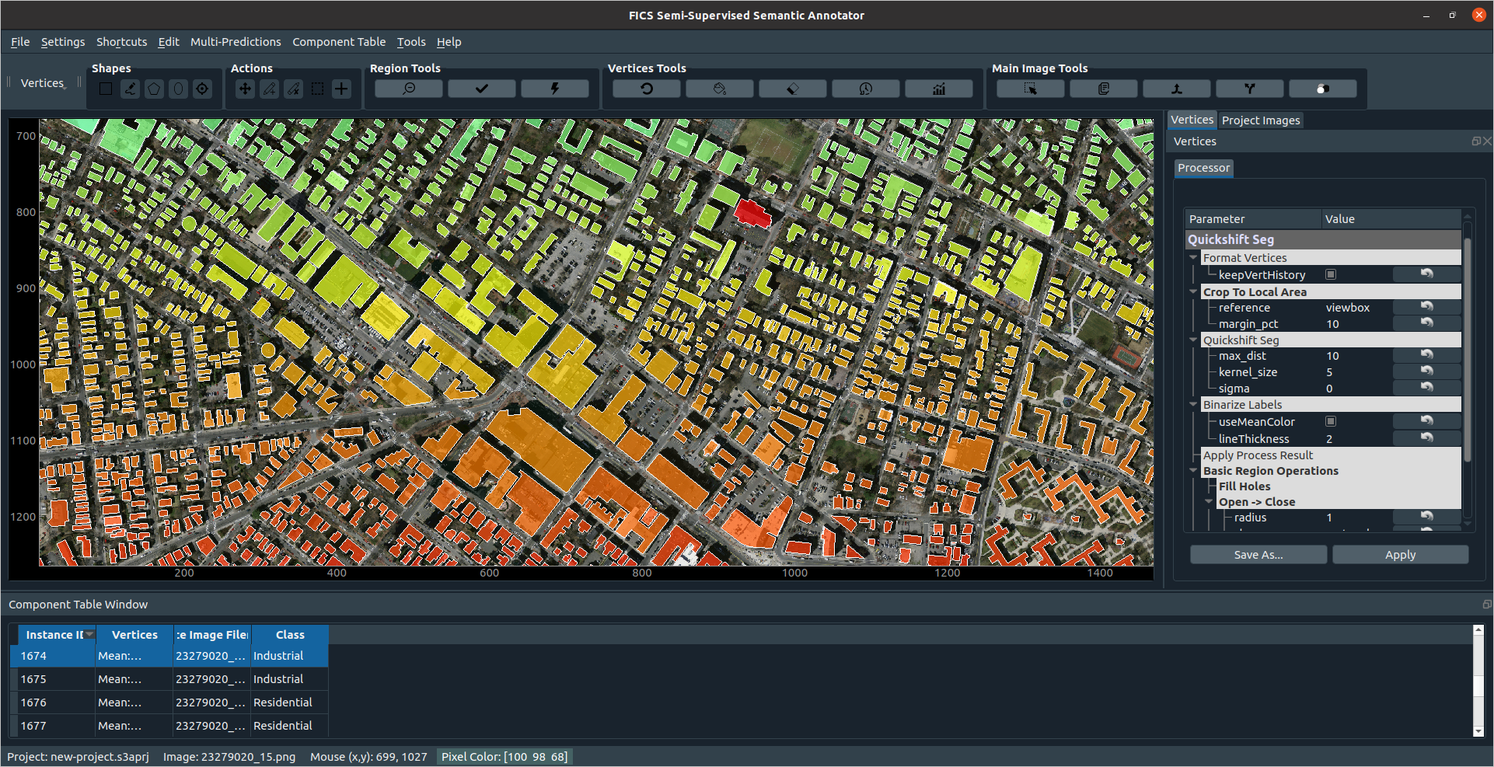
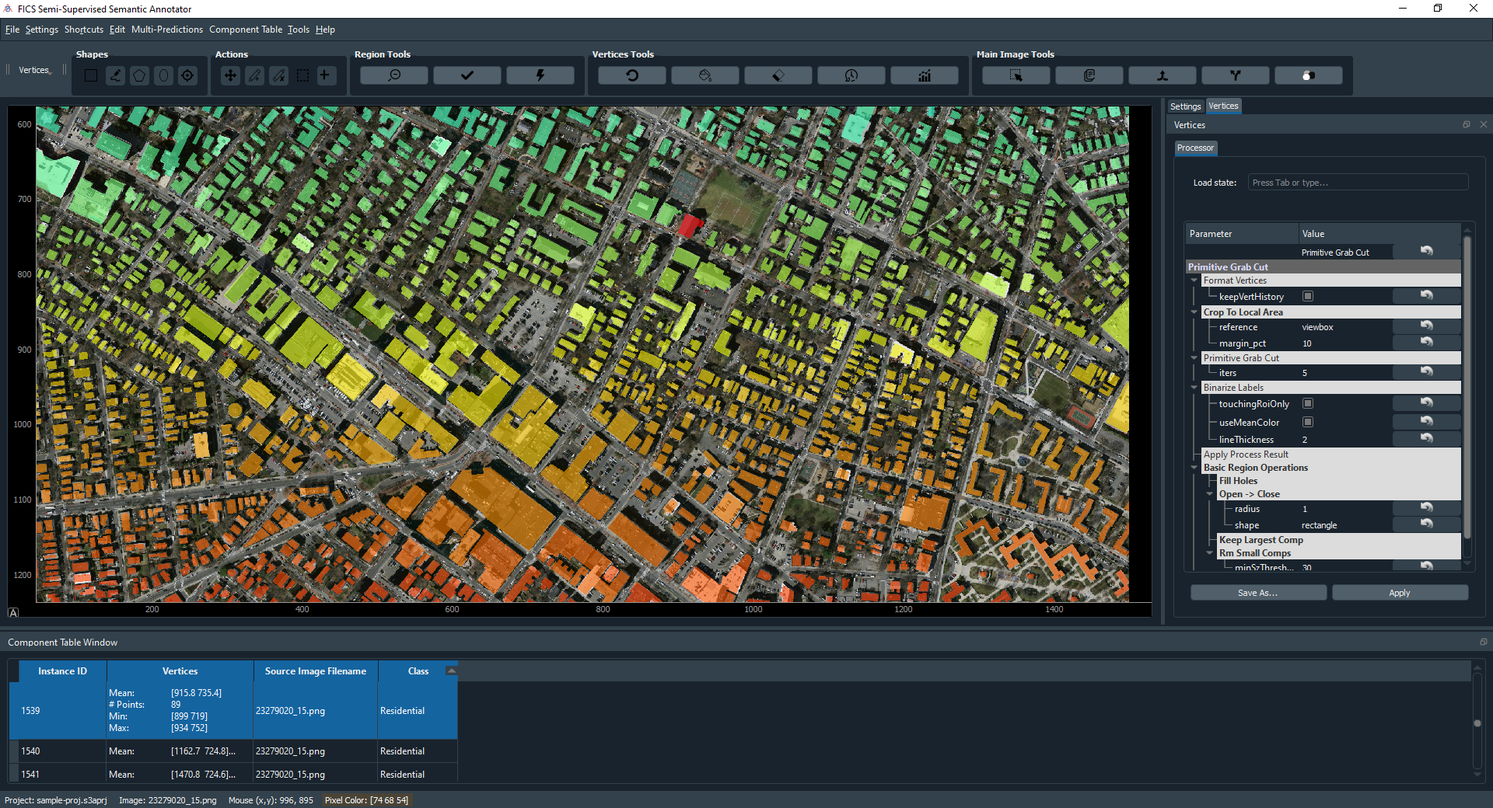
Updates from Overleaf

diff --git a/sections/methods.tex b/sections/methods.tex
@@ -1,18 +1,31 @@
-\section{Application Features}
+\section{Application Features}\label{sec:appFeatures}
 
 \subsection{Motivation}\label{sec:motivation}
-All application features are driven by the following objectives:
+Design decisions throughout S3A's architecture have been driven by the following objectives:
 
-Metadata should have significance rather than be treated as an afterthought
+\begin{itemize}
+    \item Metadata should have significance rather than be treated as an afterthought
+    \item High resolution images should have minimal impact on the annotation workflow
+    \item ROI density and complexity should not limit annotation workflow
+\end{itemize}
 
-Large images should have minimal impact on the annotation workflow
+These motives were selected upon noticing the general lack of solutions for related problems in previous literature. Moreover, applications that \emph{do} address multiple aspects of complex region annotation often require an enterprise service and cannot be accessed under open-source policies.
 
-Similarly, a multitude of regions or significant region complexity should not penalize the annotator.
+In other words, despite the great diversity present in machine learning applications, many existing annotation tooling make assumptions as to the type of data that users require and the lack of need for cross-domain / cross-dataset applicability.
+These limiting assumptions create critical bottlenecks during the annotation process when related features are required.
+Consequently, the time and cost associated with making large quality datasets is drastically increased.
 
-Why were these chosen? Cite some works about how 
+% The key limiting assumptions made by existing annotation software are the size of images, and the number of ROIs in images.
+% Many of these assumptions are related to common practices of downsizing high resolution images for faster computation times.
+With improving hardware capabilities and increasing need of high-resolution ground truth segmentation, there are a continually growing number of applications that \textit{require} high resolution imaging with the previously described characteristics \cite{Mohajerani_cloudRemoteSensing,Demochkina_improvingOneShotXray}.
+%[TODO: DESCRIBE 1 OR 2 APPLICATIONS]~\cite{TODO:}.
+In these cases, the existing annotation tooling greatly impacts productivity due to the previously referenced assumptions and lack of support \cite{SpaceNet2020-lb}.
+
+
+To demonstrate the extent to which S3A addresses these points, each subsection in \autoref{sec:appFeatures} ends with an "Impact" paragraph. This is to clearly show the relevance of every software feature to the larger annotation and visualization community. In other words, these are the primary motivators for research-based software rather than arbitrary improvements. These are refined and aggregated in \autoref{sec:impacts}.
 
 \subsection{Processing Framework}\label{sec:procFramework}
-At the root of S3A's functionality and configurability lies its adaptive processing framework. Functions exposed within S3A are thinly wrapped using a Process structure responsible for parsing signature information to provide documentation, parameter information, and more to the UI. Hence, all graphical depictions are abstracted beyond the concern of the user while remaining trivial to specify (but can be modified or customized if desired). As a result, incorporating additional application functionality requires few lines of code. An example of this wrapping mechanism is depicted in \autoref{fig:atomicProc}. Processes interface with PyQtGraph parameters to gain access to data-customized widget types and more (\href{https://github.com/pyqtgraph/pyqtgraph}{https://github.com/pyqtgraph/pyqtgraph}).
+At the root of S3A's functionality and configurability lies its adaptive processing framework. Functions exposed within S3A are thinly wrapped using a Process structure responsible for parsing signature information to provide documentation, parameter information, and more to the UI. Hence, all graphical depictions are abstracted beyond the concern of the user while remaining trivial to specify (but can be modified or customized if desired). As a result, incorporating additional application functionality requires few lines of code. An example of this wrapping mechanism is depicted in \autoref{fig:atomicProc}. Processes interface with PyQtGraph parameters to gain access to data-customized widget types and more (\url{https://github.com/pyqtgraph/pyqtgraph}).
 
 \makeAtomicProcFig
 
@@ -21,24 +34,29 @@ Such processes can also be arbitrarily nested and chained. This feature is criti
 \makeNestedProcFig
 
 \subsubsection{Image Processes}
-Image processes are a special case of the generalized paradigm described in \autoref{sec:procFramework}, since they are also capable of depicting stage-by-stage results and analytics after an operation has taken place. This feature is especially useful for determining the failure point in a chain of algorithms, allowing a user to quickly determine the most effective set of parameters for a given set of inputs. Moreover, image processes can be windowed at several levels (image, viewbox, component, and roi) to drastically improve performance in high-resolution inputs with sparsely populated foregrounds.
+Image processes are a special case of the generalized paradigm described in \autoref{sec:procFramework}, since they are also capable of depicting stage-by-stage results and analytics after an operation has taken place. This feature is especially useful for determining the failure point in a chain of algorithms, allowing a user to quickly determine the most effective set of parameters for a given set of inputs. Moreover, image processes can be windowed at several levels (image, viewbox, component, and ROI) to drastically improve performance in high-resolution inputs with sparsely populated foregrounds. Both features can be illustrated when locating people in \autoref{fig:sparsePeople}
 
+\makeSparsePeopleFig
 
-\hl{figure of region analytics}
+During annotation, it is clear some people are easier to contour than others, since darker clothing contrasts more strongly with the background. When evaluating which processing parameters are ideal for each case, it can be highly valuable to see the outputs of individual stages when a segmentation result is unexpected. An example is shown in \autoref{fig:regionAnalytics}, where a value selected for $k$ has worked well until segmenting light clothing. The reason for failure is immediately evident upon closer inspection, and $k$ can be increased accordingly to improve sensitivity.
 
-Consider the case where \hl{Use case for using region analytics to determine point of failure}
+\makeRegionAnalyticsFig
 
 \subsubsection{Impact}
-Of the existing open source tools for semantic annotation, few allow users to insert custom algorithms to perform the task at hand. Fewer still provide a building-block framework in which user functions can be mixed and matched as needed to produce optimal results. Hence, users are not required to uploading turnkey algorithmic solutions. Instead, they can hierarchically combine granular stages based on dynamic feedback to iteratively converge on a preferable processing tactic. As a result, datasets can receive annotations far more quickly and more accurately, improving the performance of subsequent trained models.
+Of the existing open-source tools for semantic annotation, few allow users to insert custom algorithms to perform the task at hand. Fewer still provide a building-block framework in which user functions can be mixed and matched as needed to produce optimal results. Hence, users are not required to uploading turnkey algorithmic solutions. Instead, they can hierarchically combine granular stages based on dynamic feedback to iteratively converge on a preferable processing tactic. As a result, datasets can receive annotations far more quickly and more accurately, improving the performance of subsequent trained models.
 
-\subsection{Model-Based Region Proposal}
+\subsection{Model-Based Region Proposal}\label{sec:rpnFramework}
 
-Beyond single region editing, S3A also exposes a framework for region-proposal mechanisms leveraging either traditional computer vision or machine learning techniques. With minimal scaffolding, users with existing algorithms or network architectures can insert their technique directly into the annotation process and receive fine-tuned control over all modifiable input parameters.
+Beyond single region editing, S3A also exposes a framework for region-proposal mechanisms leveraging either traditional computer vision or machine learning techniques. With minimal scaffolding, users with existing algorithms or network architectures can insert their techniques directly into the annotation process and receive fine-tuned control over all modifiable input parameters.
 
 Since S3A utilizes a project structure, such predictions can be applied ahead of time to alternate images in the same project if desired. As a result, future project images can potentially be completed by this prediction mechanism with even less manual effort. The ultimate goal of such an integration is to gradually convert the task of manual image \emph{annotation} to that of annotation \emph{verification}, which can be completed much more rapidly.
 
+An example highlighting this use case is shown in \autoref{fig:templateMatch}. In cases where a structure shares remarkable similarity to others in the image, it is not necessary to employ a complex region proposal network to infer additional components of interest. Rather, a technique as simple as template matching can drastically reduce the manual workload in annotating these images. The benefit of using S3A as a platform for this operation rather than running general image processing techniques and extracting the result is real-time feedback, ability change the parameters on-the-fly, and easy access to metadata alterations.
+
+\makeTemplateMatchFig
+
 \subsubsection{Impact}
-Unlike alternatives, S3A allows control of region proposal at both local and global areas. Thus, windowing-based approaches to region proposal can be incorporated without requiring image stitching, cropping, or similar preprocessing directives. This increases the flexibility and applicability of techniques which otherwise could not be applied to unprocessed, large images.
+Unlike alternatives, S3A allows control of region proposal in both local and global areas. Thus, windowing-based approaches to region proposal can be incorporated without requiring image stitching, cropping, or similar preprocessing directives. This increases the flexibility and applicability of techniques that otherwise could not be applied to unprocessed, large images.
 
 \subsection{Component Table}
 
@@ -49,15 +67,15 @@ Furthermore, each delegate type can be filtered by specifying a range of allowab
 \makeStandFilterFig
 
 \subsubsection{Impact}
-Human-annotated datasets inevitably accrue errors, either through misinterpretation or mistaken inputs \cite{Dai_crowdSourceWorkflows,Russakovsky_humanCollabAnnotation2015}. Simple techniques such as using dropdowns instead of raw text entries, limitations on integer/float labels, and related control techniques can prevent such errors from occurring early on. Since these are directly based on minimal user specifications, S3A as an annotation platform inherently maintains a level of integrity in collected attributes and metadata. An example of this is shown in \autoref{fig:boundCheck}, which indicates the limits set by a user's field configuration do not allow negative values.
+Human-annotated datasets inevitably accrue errors, either through misinterpretation or mistaken inputs \cite{Dai_crowdSourceWorkflows,Russakovsky_humanCollabAnnotation2015,Radenovic_CNNNoHuman}. Simple techniques such as using dropdowns instead of raw text entries, limitations on integer/float labels, and related control techniques can prevent such errors from occurring early on. Since these are directly based on minimal user specifications, S3A as an annotation platform inherently maintains a level of integrity in collected attributes and metadata. An example of this is shown in \autoref{fig:boundCheck}, which indicates the limits set by a user's field configuration do not allow negative values.
 
 \makeBoundCheckFig
 
-\subsection{Plugins for User Extensions}
+\subsection{Plugins for User Extensions}\label{sec:plugins}
 \autoref{sec:procFramework} briefly described how custom user functions are easily be wrapped within a process, exposing its parameters within S3A in a GUI format. A rich plugin interface is built on top of this capability, in which custom functions, table field predictors, default action hooks, and more can be directly integrated into S3A. In all cases, only a few lines of code are required to achieve most integrations between user code and plugin interface specifications.
 
 \subsubsection{General Plugins}
-The core plugin infrastructure consists of a function/property registration mechanism and an interaction window which shows them in the UI. As such, arbitrary user functions can be `registered` in one line of code to a plugin, where it will be effectively exposed to the user within S3A. The example from \autoref{fig:atomicProc} is shown again here, but integrated into the main application. In this case, it is appended to a list of miscellaneous functions, which are managed by a plugin provided for this purpose. Note that an extra function parameter, \texttt{win}, is optional and gives the function access to the running application.
+The core plugin infrastructure consists of a function/property registration mechanism and an interaction window that shows them in the UI. As such, arbitrary user functions can be `registered` in one line of code to a plugin, where it will be effectively exposed to the user within S3A. The example from \autoref{fig:atomicProc} is shown again, but integrated into the main application. In this case, it is appended to a list of miscellaneous functions, which are managed by a plugin provided for this purpose. Note that an extra function parameter, \texttt{win}, is optional and gives the function access to the running application.
 
 \makeCustomMiscFuncFig
 
@@ -71,24 +89,27 @@ Plugin features are heavily oriented toward easing the process of automation bot
 \subsection{Export Formats}
 An I/O interface is provided which allows data collected through S3A to be communicated in arbitrary formats, ranging from CSV to JSON to labeled bitmaps. These are also easily extendable by users who require customized formatting.
 
-Among these options, one export provides cutouts of each individual component for easier machine learning model training. These cutouts can be scaled to a uniform size (e.g. 500x500 pixels) to cater to networks requiring a fixed input layer width. Hence, images which can be intelligently subdivided into smaller segmentation challenges can be treated independently of the whole image if desired. An exmaple of such an export format is shown in \autoref{fig:cropExports}
+Among these options, one export provides cutouts of each component for easier machine learning model training. These cutouts can be scaled to a uniform size (e.g. 500x500 pixels) to cater to networks requiring a fixed input layer width. Hence, images that can be intelligently subdivided into smaller segmentation challenges can be treated independently of the whole image if desired. An example of such an export format is shown in \autoref{fig:cropExports}
 
 \makeCropExportsFig
 
 \subsubsection{Impact}
-S3A was designed with ease of adoption and integration in mind from the beginning. Multiple export formats lower this entry barrier, and ensure multiple domains can leverage its provided data. Moreover, as mentioned in \autoref{sec:motivation}, another major goal during the creation of this software was to elevate the status of metadata to fully support its prediction, validation, and more. Hence, defining export formats that prioritize in this manner will hopefully motivate conversations about their potential importance and integration into existing annotation platforms.
+S3A was designed with ease of adoption and integration in mind from the beginning. Multiple export formats lower this entry barrier, and ensure multiple domains can leverage their provided data. Moreover, as mentioned in \autoref{sec:motivation}, another major goal during the creation of this software was to elevate the status of metadata to fully support its prediction, validation, and more. Hence, defining export formats that prioritize in this manner will hopefully motivate conversations about their potential importance and integration into existing annotation platforms.
 
 
 \subsection{Reconfigurability}
-Our previous work \cite{jessurunComponentDetectionEvaluation2020} described the idea of customizable application and color scheme behavior, a feature which has been significantly updated at present.
+Our previous work \cite{jessurunComponentDetectionEvaluation2020} described the idea of customizable application and color scheme behavior, a feature that has been significantly updated at present.
 
 \subsubsection{Persistent Customized States}
-Currently, any configuration of parameters can be saved in an intuitive, human-readable format. This can in turn be loaded or specified in a startup configuration as needed.
+Currently, any configuration of parameters can be saved in an intuitive, human-readable format. This can in turn be loaded or specified in a startup configuration as needed. Since settings can persist at either a project or global level, flexibility is provided for cases in which multiple annotation projects are ongoing.
 
 \subsubsection{Color Schemes}
-Notably, S3A allows the user to freely select which table column should represent a component's color when overlaid on the input image. Depending on user goals, they have the option of displaying the component's ID, class, or any custom field as they see fit. This allows users to visually evaluate common characteristics of their data with minimal effort. An example of this is shown in \autoref{fig:reconfig}. The availability of both linear and set-wise colormaps assist visualizing both continuous ranges of values (e.g. numerical fields) and selection-based values (e.g. a "Class" dropdown). Importantly, this drastically decreases the time required to quickly spot anomalies in annotated metadata during manual quality assurance review.
+Notably, S3A allows the user to freely select which table column should represent a component's color when overlaid on the input image. Depending on user goals, they have the option of displaying the component's ID, class, or any custom field as they see fit. This allows users to visually evaluate common characteristics of their data with minimal effort. An example of this is shown in \autoref{fig:reconfig}. The availability of both linear and set-wise colormaps assists in visualizing both continuous ranges of values (e.g. numerical fields) and selection-based values (e.g. a "Class" dropdown). Importantly, this drastically decreases the time required to quickly spot anomalies in annotated metadata during manual quality assurance review.
 
 \makeReconfigFigs
+
+\subsubsection{Shortcuts}
+Users with international/alternate keyboard layouts often cannot leverage the default shortcuts and hotkeys as implemented in standard annotation platforms. To prevent these pitfalls, and further the theme of user-customized workflow, S3A supports an adaptive shortcut framework that can be changed to suit the needs of multiple user types. This is exposed for custom integrations as well, so processes or extensions leveraging the plugin framework as described in \autoref{sec:plugins} can rapidly access these as well.
 
 \subsubsection{Impact}
 While these features may sound irrelevant or superfluous, they provide users with shortcuts and rapid access which immensely reduces the amount of time required to complete an annotation batch. This saved time comes at no cost to output accuracy and allows users to annotate more images as a result. Hence, software improvements such as easily accessible buttons and modifiable hotkeys for custom functions directly translate to improved model performance on the collected data.

diff --git a/sections/intro.tex b/sections/intro.tex
@@ -7,11 +7,15 @@ Such labels are typically defined with approximate enclosing shapes (i.e. simple
 
 % However, a wide variety of applications require pixel-level accuracy, ranging from hardware assurance to medical imaging.
 Alternatively, semantic segmentation is a technique providing pixel-level accuracy which avoids poor foreground representation~\cite{chengSurveyAnalysisAutomatic2018}.
-Example fields applying this method include Bill-of-Material (BoM) extraction \cite{azhaganReviewAutomaticBill2019}, quality control during manufacturing \cite{fergusonDetectionSegmentationManufacturing2018,anagnostopoulosComputerVisionApproach2001,anagnostopoulosHighPerformanceComputing2002}, manuscript restoration / digitization \cite{gatosSegmentationfreeRecognitionTechnique2004,kesimanNewSchemeText2016,jainTextSegmentationUsing1992,taxtSegmentationDocumentImages1989,fujisawaSegmentationMethodsCharacter1992}, and effective patient diagnosis \cite{seifertSemanticAnnotationMedical2010,rajchlDeepCutObjectSegmentation2017,yushkevichUserguided3DActive2006,iakovidisRatsnakeVersatileImage2014}.
+One such field applying this method include Bill-of-Material (BoM) extraction. This BoM, or list of all surface-mount devices (SMDs) on a printed circuit board (PCB) surface, can be generated from optical images of a board under test. Next, it can be compared against a reference design to detect likely counterfeit, tampered, or defective SMDs~\cite{paradis2020color,azhaganReviewAutomaticBill2019}. To create such a BoM using optical data alone, it is crucial that detected SMDs use segmentation masks that are representative of structures such as pins, solder flow, and more. This is the only way the collected data will remain indicative of true BoM properties. An example annotation is shown in \autoref{fig:pcb}
+
+\makePcbFig
+
+Beyond PCB analysis, semantic segmentation is important in several other domains including quality control during manufacturing \cite{fergusonDetectionSegmentationManufacturing2018,anagnostopoulosComputerVisionApproach2001,anagnostopoulosHighPerformanceComputing2002}, manuscript restoration / digitization \cite{gatosSegmentationfreeRecognitionTechnique2004,kesimanNewSchemeText2016,jainTextSegmentationUsing1992,taxtSegmentationDocumentImages1989,fujisawaSegmentationMethodsCharacter1992}, and effective patient diagnosis \cite{seifertSemanticAnnotationMedical2010,rajchlDeepCutObjectSegmentation2017,yushkevichUserguided3DActive2006,iakovidisRatsnakeVersatileImage2014}.
 In all these cases, imprecise annotations severely limit the development of automated solutions and can decrease the accuracy of standard trained segmentation models.
 
-Quality semantic segmentation is difficult due to a reliance on large high-quality datasets, which are often created by manually labeling each image.
-Manual annotation is error-prone, costly and greatly hinders scalability.
+Quality semantic segmentation is difficult due to a reliance on large, high-quality datasets, which are often created by manually labeling each image.
+Manual annotation is error-prone, costly, and greatly hinders scalability.
 Several tools have been proposed to alleviate the burden of collecting ground-truth labels for semantic segmentation~\cite{BestImageAnnotation}.
 % The more commonly used applications are listed in \cite{BestImageAnnotation}.
 Unfortunately, existing tools are heavily biased toward lower-resolution images with few regions of interest (ROI) (\autoref{fig:sampleSegData}).
@@ -31,11 +35,11 @@ While this may not be an issue for some datasets, such assumptions are \emph{cri
 %Toward this end, 
 S3A circumvents these pitfalls by providing deep customization of the annotation workflow at both a granular and high level.
 % To the best of our knowledge, it is the only application with this capability at both a granular and high level.
-Arbitrary python functions can be seamlessly integrated into the processing workflow, and every algorithm developed within S3A can be accessed in a headless (i.e. automated or scripted) manner independent of the GUI.
+Arbitrary Python functions can be seamlessly integrated into the processing workflow, and every algorithm developed within S3A can be accessed in a headless (i.e. automated or scripted) manner independent of the GUI.
 
 In this paper, we present significant improvements to the fundamentals of S3A as previously introduced in \cite{jessurunComponentDetectionEvaluation2020}.
 % Our revisions presented in this work are significant improvements to the previous publication's future work.
 % In this paper, we present the core components of the S3A processing framework and labeling suite.
-This includes live app-level property customization, real-time algorithm modification and feedback, region prediction assistance, constrained component table editing based on allowed data types, a multitude of data export formats, and a highly adaptable set of plugin interfaces for application-specific extensions to S3A.
+This includes live app-level property customization, real-time algorithm modification, and feedback, region prediction assistance, constrained component table editing based on allowed data types, a multitude of data export formats, and a highly adaptable set of plugin interfaces for application-specific extensions to S3A.
 We also note the potential impact on the image processing community improving labeling speed, accuracy, and multiple insertion points for algorithm feedback.
 Beyond software improvements, these features play significant roles in bridging the gap between human annotation efforts and scalable, automated segmentation methods \cite{Branson_humansInLoop}.

diff --git a/sections/conclusion.tex b/sections/conclusion.tex
@@ -1,4 +1,14 @@
 \section{Conclusion and Future Work}
-The Semi-Supervised Semantic Annotator (S3A) is proposed to address the difficult task of pixel-level annotations of image data. For high-resolution images with numerous complex regions of interest, existing labeling software faces performance bottlenecks attempting to extract ground-truth information. Moreover, there is a lack of capabilities to convert such a labeling workflow into an automated procedure with feedback at every step. Each of these challenges are overcome by various features within S3A specifically designed for such tasks. As a result, S3A provides not only tremendous time savings during ground truth annotation, but also allows an annotation pipeline to be directly converted into a prediction scheme. Furthermore, the rapid feedback accessible at every stage of annotation expedites prototyping of novel solutions to imaging domains in which few examples of prior work exist.
+The Semi-Supervised Semantic Annotator (S3A) is proposed to address the difficult task of pixel-level annotations of image data. For high-resolution images with numerous complex regions of interest, existing labeling software faces performance bottlenecks attempting to extract ground-truth information. Moreover, there is a lack of capabilities to convert such a labeling workflow into an automated procedure with feedback at every step. Each of these challenges is overcome by various features within S3A specifically designed for such tasks. As a result, S3A provides not only tremendous time savings during ground truth annotation, but also allows an annotation pipeline to be directly converted into a prediction scheme. Furthermore, the rapid feedback accessible at every stage of annotation expedites prototyping of novel solutions to imaging domains in which few examples of prior work exist.
 
-Improvements are ongoing and will include a variety of powerful features. Chief among these will be an algorithm builder to allow greater flexibility with mixing and matching useful region modification stages. Moreover, a minimap, improved robust region selection, more default multi-prediction options, and more export options will both assist S3A's capabilities when handling large images and increase its viability as a professional labeling tool.
+\subsection{Dynamic Algorithm Builder}
+Improvements are ongoing and will include a variety of powerful features. Chief among these will be an algorithm builder to allow greater flexibility with mixing and matching useful region modification stages. Consequently, the available selection of algorithms and tweaking capabilities will be drastically increased. Rather than only modifying \emph{parameter} values, users will be able to adaptively add \emph{processing stages} as well.
+
+\subsection{Image Navigation Assistance}
+Several aspects of image navigation can be incorporated to simplify  the handling of large images. For instance, a `minimap' tool would allow users to maintain a global image perspective while making local edits. Furthermore, this sense of scale aids intuition of how many regions of similar component density, color, etc. exist within the entire image.
+
+Second, multiple strategies for annotating large images leverage a windowing approach, where they will divide the total image into several smaller pieces in a gridlike fashion. While this has its disadvantages, it is fast, easy to automate, and produces reasonable results depending on the initial image complexity \cite{Vigueras_fullCnnCornealSegmentation}. Hence, these methods would be significantly easier to incorporate into S3A if a generalized windowing framework was incorporated which allows users to specify all necessary parameters such as window overlap, size, sampling frequency, etc.
+
+
+\subsection{Aggregation of Human Annotation Habits}
+Several times, it has been noted that manual segmentation of image data is not a feasible or scalable approach for remotely large datasets. However, there are multiple cases in which human intuition can greatly outperform even complex neural networks, depending on the specific segmentation challenge \cite{Russakovsky_humanCollabAnnotation2015}. For this reason, it would be ideal to capture data points hinting toward this decision-making process and use this information to represent human evaluation of images at scale. This may include taking into account human labeling time per class, hesitation between clicks, relationship between shape boundary complexity and instance quantity, and more. By aggregating such statistics, a pattern may arise which can be leveraged as an additional automated annotation technique.

diff --git a/main.tex b/main.tex
@@ -101,7 +101,7 @@
 \authorfooter{
 %% insert punctuation at end of each item
 \item
- All authors are with the Florida Institute for Cybersecurity Research (FICS) at the Univeristy of Florida. E-mail: {njessurun | dcapecci | paradiso}@ufl.edu, {dwoodard | nasadi}@ece.ufl.edu.
+ All authors are with the Florida Institute for Cybersecurity Research (FICS) at the University of Florida. E-mail: {njessurun | dcapecci | paradiso}@ufl.edu, {dwoodard | nasadi}@ece.ufl.edu.
 }
 
 %other entries to be set up for journal
@@ -109,12 +109,12 @@
 %\shortauthortitle{Firstauthor \MakeLowercase{\textit{et al.}}: Paper Title}
 
 %% Abstract section.
-\abstract{Most semantic image annotation platforms suffer severe bottlenecks when handling large images, complex regions of interest, or numerous distinct foreground regions in a single image. We have developed the Semi-Supervised Semantic Annotator (S3A) to address each of these issues and facilitate rapid collection of ground truth pixel-level labeled data. Such a feat is accomplished through a robust and easy-to-extend integration of arbitrary python image processing functions into the semantic labeling process. Importantly, the framework devised for this application allow easy visualization and machine learning prediction of arbitrary formats and amounts of per-component metadata. To our knowledge, the ease and flexibility offered are unique to S3A among all open-source alternatives. S3A is available through pypi.org (\href{https://pypi.org/project/s3a/}{https://pypi.org/project/s3a/}) and GitLab (\href{https://gitlab.com/ficsresearch/s3a}{https://gitlab.com/ficsresearch/s3a}).%
+\abstract{Most semantic image annotation platforms suffer severe bottlenecks when handling large images, complex regions of interest, or numerous distinct foreground regions in a single image. We have developed the Semi-Supervised Semantic Annotator (S3A) to address each of these issues and facilitate rapid collection of ground truth pixel-level labeled data. Such a feat is accomplished through a robust and easy-to-extend integration of arbitrary python image processing functions into the semantic labeling process. Importantly, the framework devised for this application allows easy visualization and machine learning prediction of arbitrary formats and amounts of per-component metadata. To our knowledge, the ease and flexibility offered are unique to S3A among all open-source alternatives. S3A is available through pypi.org (\href{https://pypi.org/project/s3a/}{https://pypi.org/project/s3a/}) and GitLab (\href{https://gitlab.com/ficsresearch/s3a}{https://gitlab.com/ficsresearch/s3a}).%
 } % end of abstract
 
 %% Keywords that describe your work. Will show as 'Index Terms' in journal
 %% please capitalize first letter and insert punctuation after last keyword
-\keywords{Radiosity, global illumination, constant time}
+\keywords{Semantic annotation; Image labeling; Semi-supervised; Region of interest}
 
 %% ACM Computing Classification System (CCS). 
 %% See <http://www.acm.org/class/1998/> for details.
@@ -130,7 +130,7 @@
 \teaser{
   \centering
   \includegraphics[width=\linewidth]{figures/appOverview}
-  \caption{S3A's interface. The main view consists of an image to annotate, a component table of prior annotations, and a toolbar which changes functionality depending on context. Image under annotation retrieved from \url{https://www.kaggle.com/bulentsiyah/semantic-drone-dataset}.}
+  \caption{S3A's interface. The main view consists of an image to annotate, a component table of prior annotations, and a toolbar that changes functionality depending on context. Image under annotation retrieved from \url{https://www.kaggle.com/balraj98/massachusetts-buildings-dataset}.}
   \label{fig:teaser}
 }
 

diff --git a/figures/makefigs.tex b/figures/makefigs.tex
@@ -140,7 +140,44 @@
 \begin{figure}[!htbp]
     \centering
     \includegraphics[width=0.5\linewidth]{figures/cropExports}
-    \caption{Multiple export formats exist, among which is a utility which crops components out of the image and saves sub-images of their appearance and mask. This is useful for training on multiple forms of machine learning models.}
+    \caption{Multiple export formats exist, among which is a utility that crops components out of the image and saves sub-images of their appearance and mask. This is useful for training on multiple forms of machine learning models.}
     \label{fig:cropExports}
+\end{figure}
+}
+
+\newcommand{\makeRegionAnalyticsFig}{%
+\begin{figure*}[!htbp]
+    \centering
+    \includegraphics[width=\linewidth]{figures/regionAnalytics}
+    \caption{Outputs of each processing stage can be quickly viewed in context after an iteration of annotating. Upon inspecting the results, it is clear the failure point is a low $k$ value during K-means clustering and segmentation. The woman's shirt is not sufficiently distinguishable from the background palette to denote a separate entity. The red dot is an indicator of where the operator clicked during annotation.}
+    \label{fig:regionAnalytics}
+\end{figure*}
+}
+
+\newcommand{\makeSparsePeopleFig}{%
+\begin{figure}[!htbp]
+    \centering
+    \includegraphics[width=\linewidth]{figures/sparsePeople}
+    \caption{Example image where people must be segmented from the background. The low density of foreground pixels means local processing saves orders of magnitudes on some algorithm computation times compared to directly segmenting the entire image. Retrieved from \url{https://unsplash.com/}.}
+    \label{fig:sparsePeople}
+\end{figure}
+}
+
+\newcommand{\makeTemplateMatchFig}{%
+\begin{figure}[!htbp]
+    \centering
+    \includegraphics[width=\linewidth]{figures/templateMatch}
+    \caption{In cases where repeating structures are prevalent in an image, template matching can be effectively used as a simple region proposal technique. Annotated image retrieved from \url{https://unsplash.com/}.}
+    \label{fig:templateMatch}
+\end{figure}
+}
+
+
+\newcommand{\makePcbFig}{%
+\begin{figure}[!htbp]
+    \centering
+    \includegraphics[width=\linewidth]{figures/pcb}
+    \caption{Example PCB segmentation. Surface-mount device (SMD) properties such as pin count, solder quality, connectivity, and more are difficult or impossible to infer without precise and accurate image segmentation.}
+    \label{fig:pcb}
 \end{figure}
 }

diff --git a/sections/results_discussion.tex b/sections/results_discussion.tex
@@ -1,2 +1,5 @@
-\section{Results}
-To evaluate these claims against other popular annotation software, an experiment will be carried out to annotate images exhibiting high resolution, numerous foreground regions, and high ROI complexity. Total time required to annotate the images will be compared against the resulting accuracy to show the quantitative effects of the features proposed here.
+\section{Summary of High-Level Impacts}\label{sec:impacts}
+%To evaluate these claims against other popular annotation software, an experiment will be carried out to annotate images exhibiting high resolution, numerous foreground regions, and high ROI complexity. Total time required to annotate the images will be compared against the resulting accuracy to show the quantitative effects of the features proposed here.
+Key takeaways from \autoref{sec:appFeatures} should strongly emphasize the exploration of annotation capabilities rather than any specific software implementation. Toward this end, S3A's major contributions for annotation and ground truth collection involve meeting both skilled and novice operators at their current level, allowing them to increase the effectiveness of their time during annotation. Beyond this, S3A also supplements existing datasets by providing a unique visualization platform. Its support of dynamic peripheral data, filtering, and more allow operators to quickly hone in on what matters in the current image.
+
+S3A also approaches the task of annotation with a greater emphasis on manual interaction. Throughout the push for increasing automated capabilities, there is still a multitude of insertion points for tweaking parameters and exploring algorithmic solution spaces. As a result, minor adjustments in a given annotation pipeline do not require a reinvention of any individual stage. Rather, subtle changes can be incorporated on an image-by-image or region-by-region basis to leverage the greatest possible output accuracy.
